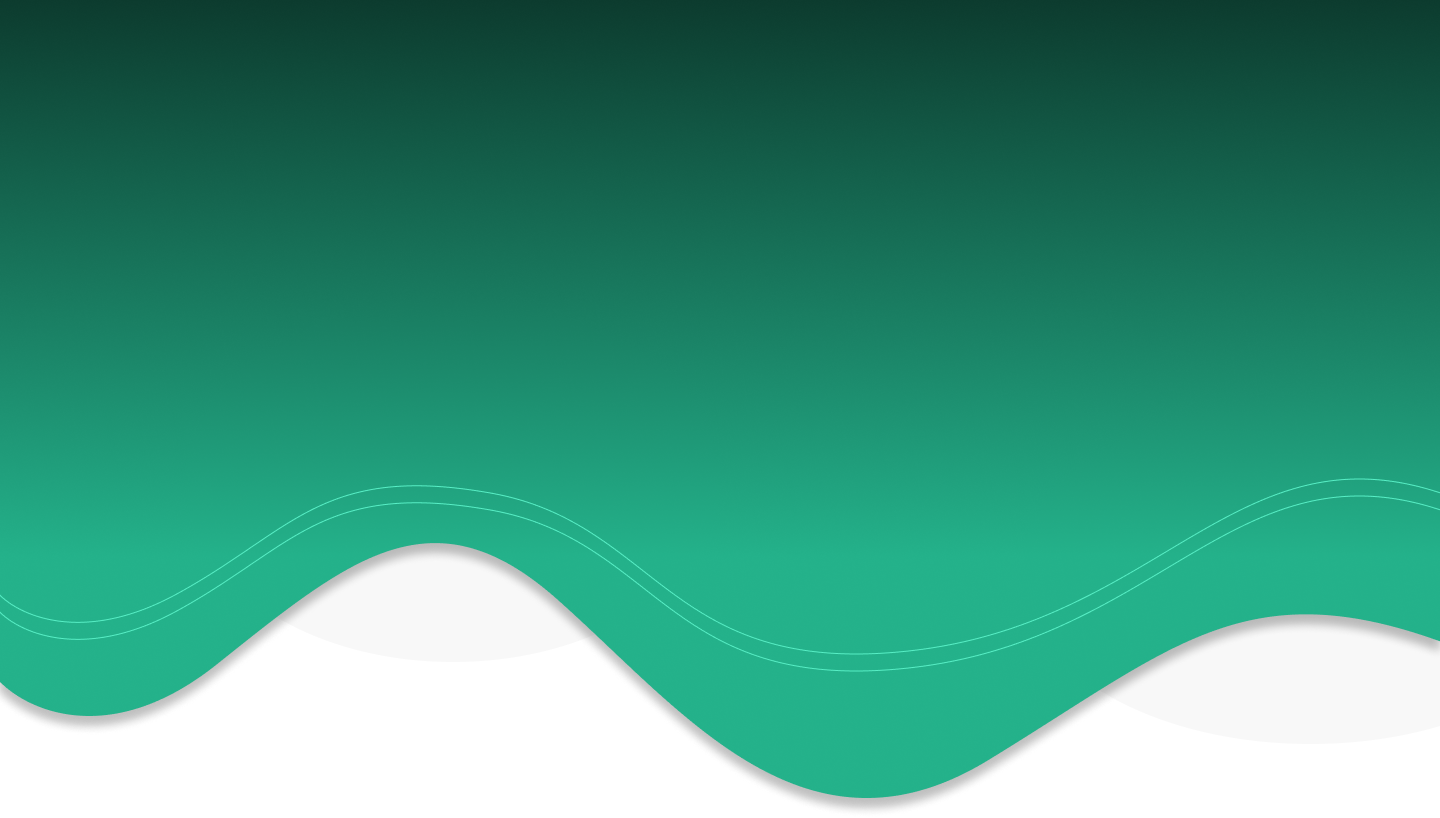
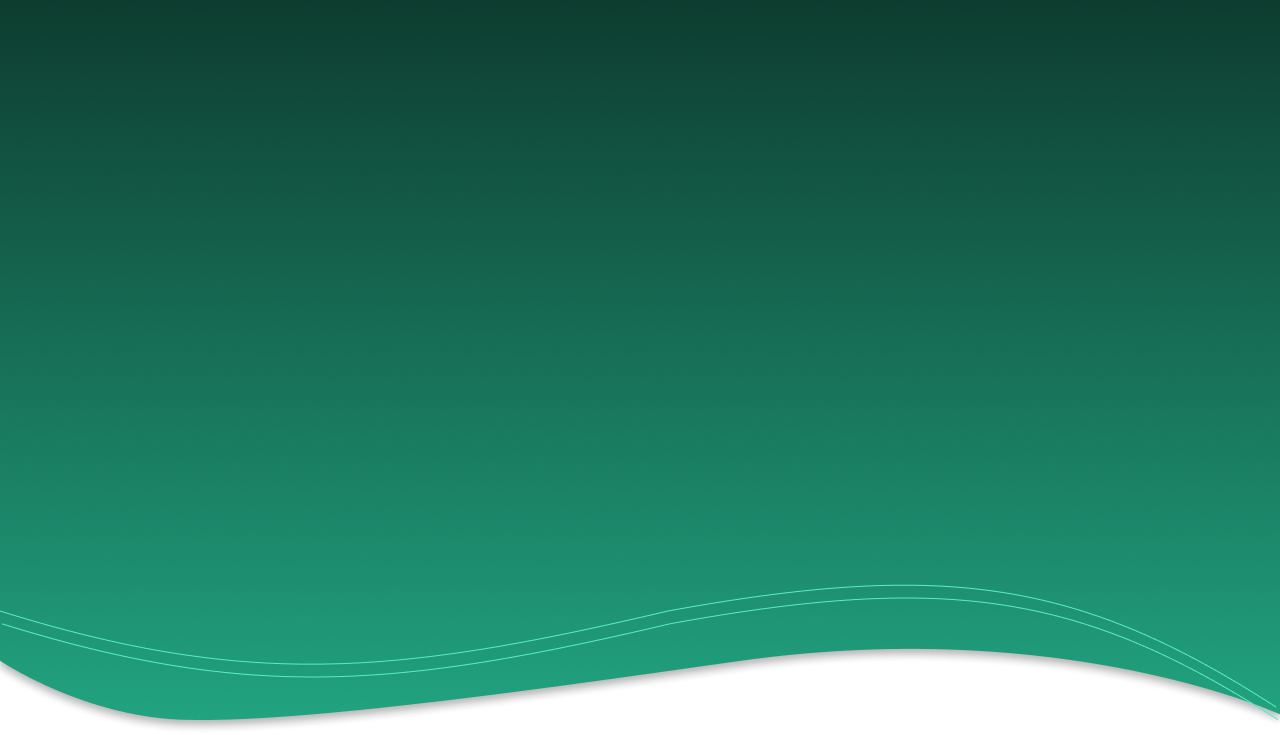
Fix Background and Responsive

diff --git a/index.html b/index.html
@@ -13,13 +13,15 @@
     rel="stylesheet">
   <!-- CSS -->
   <link rel="stylesheet" href="assets/css/style.css">
+  <link rel="icon" href="assets/img/logo-transparent.png">
 
   <title>Breakpoint.id</title>
 </head>
 
 <body>
-  <nav id="navbar-menu" class="navbar navbar-expand-md d-flex flex-column justify-content-md-center v-height-full">
-    <button class="navbar-toggler" type="button" data-bs-toggle="collapse" data-bs-target="#navbarNavAltMarkup"
+  <nav id="navbar-menu"
+    class="navbar navbar-expand-md d-flex flex-column justify-content-md-center align-items-end v-height-full">
+    <button class="navbar-toggler text-end" type="button" data-bs-toggle="collapse" data-bs-target="#navbarNavAltMarkup"
       aria-controls="navbarNavAltMarkup" aria-expanded="false" aria-label="Toggle navigation">
       <span class="navbar-toggler-icon"></span>
     </button>
@@ -52,13 +54,16 @@
       </div>
       <div class="header d-flex flex-column justify-content-center">
         <div class="container">
-          <div class="row">
-            <div class="col-md-6 px-5">
+          <div class="row align-items-center justify-content-center">
+            <div class="col-md-5">
               <h1 class="header-title">BREAKPOINT.</h1>
               <p class="header-description">Kami dapat mewujudkan website yang menarik dan fungsional untuk bisnis,
                 perusahaan, atau e-commerce
                 Anda.
               </p>
+            </div>
+            <div class="col-md-5 text-center">
+              <img src="assets/img/header-image.png" class="header-image" alt="">
             </div>
           </div>
         </div>
@@ -125,9 +130,9 @@
     <section id="project">
       <div class="project d-flex flex-column justify-content-center">
         <div class="container">
-          <div class="row justify-content-center">
+          <div class="row align-items-center justify-content-center">
             <div class="col-lg-7">
-              <h2 class="my-4 text-center">Proyek Sebelumnya</h2>
+              <h2 class="text-center">Proyek Sebelumnya</h2>
               <div class="text-end my-3">
                 <a href="" class="project-link">Lihat Semua >></a>
               </div>
@@ -174,7 +179,7 @@
             <div class="col-lg-8">
               <h2 class="text-center mb-5">Daftar Paket dan Harga</h2>
               <div class="row mx-2">
-                <div class="col-md-4 my-2">
+                <div class="col-md-4 order-2 order-md-1 my-2">
                   <div class="pricing-content text-center">
                     <h4>Small Business</h4>
                     <h3>1150K<span>/proyek</span></h3>
@@ -185,7 +190,7 @@
                     <h6>E-commerce, Online Shop, blabla, blabla</h6>
                   </div>
                 </div>
-                <div class="col-md-4 my-2">
+                <div class="col-md-4 order-1 order-md-2 my-2">
                   <div class="pricing-content text-center active">
                     <h4>Small Business</h4>
                     <h3>1150K<span>/proyek</span></h3>
@@ -196,7 +201,7 @@
                     <h6>E-commerce, Online Shop, blabla, blabla</h6>
                   </div>
                 </div>
-                <div class="col-md-4 my-2">
+                <div class="col-md-4 order-3 order-md-3 my-2">
                   <div class="pricing-content text-center">
                     <h4>Small Business</h4>
                     <h3>1150K<span>/proyek</span></h3>

diff --git a/assets/sass/style.scss b/assets/sass/style.scss
@@ -80,12 +80,7 @@ body {
 }
 
 #home {
-  height: 100vh;
   position: relative;
-  background-image: url(../img/bg-header.png);
-  background-size: cover;
-  background-repeat: no-repeat;
-  background-position: right;
   .logo {
     position: absolute;
     top: 0;
@@ -101,7 +96,12 @@ body {
     }
   }
   .header {
-    height: 75vh;
+    min-height: 100vh;
+    background-image: url(../img/bg-header.png);
+    background-size: 100% 100%;
+    background-repeat: no-repeat;
+    background-position: center;
+    min-height: 100vh;
     &-title {
       font-size: 3rem;
       font-weight: 700;
@@ -111,13 +111,16 @@ body {
       font-size: 1.5rem;
       color: $white-color;
     }
+    &-image {
+      max-width: 250px;
+    }
   }
 }
 
 .about {
+  min-height: 100vh;
+  margin: -5rem 0;
   background-color: transparent;
-  margin-top: -5rem;
-  height: 90vh;
   &-title {
     font-size: 1.5rem;
     font-weight: 700;
@@ -165,13 +168,12 @@ body {
 
 #project {
   position: relative;
-  height: 120vh;
-  background-image: url(../img/bg-home.png);
-  background-size: 100% 100%;
-  background-repeat: no-repeat;
-  background-position: center;
   .project {
-    height: 100vh;
+    min-height: 100vh;
+    background-image: url(../img/bg-home.png);
+    background-size: 100% 100%;
+    background-repeat: no-repeat;
+    background-position: center;
     &-link {
       color: $yellow-color;
       font-weight: 700;
@@ -206,8 +208,8 @@ body {
 }
 
 .pricing {
-  margin-top: -10rem;
-  height: 100vh;
+  min-height: 100vh;
+  margin: -5rem 0;
   h2 {
     font-size: 1.5rem;
     color: $green-color;
@@ -290,13 +292,11 @@ body {
 }
 
 #footer {
-  margin-top: -10rem;
-  height: 100vh;
-  background-image: url(../img/bg-footer.png);
-  background-size: 100% 100%;
-  background-position: center;
   .footer {
-    height: 100vh;
+    min-height: 100vh;
+    background-image: url(../img/bg-footer.png);
+    background-size: 100% 100%;
+    background-position: center;
   }
   h2 {
     color: $white-color;
@@ -304,36 +304,19 @@ body {
     font-weight: 700;
   }
 }
-@media screen and (max-height: 576px) {
-  #home {
-    height: 100vh;
-    background-size: 100% 100%;
-  }
-  #project {
-    min-height: 100vh;
-    background-size: 100% 100%;
-  }
-}
 
 @media screen and (max-width: 992px) {
-  .about {
-    margin-top: 0;
-    height: auto;
-  }
-  #project {
-    height: 120vh;
+  #home .header,
+  #project .project,
+  #footer .footer {
+    padding: 5rem 0;
     background-size: cover;
-    background-position-x: right;
+    background-position: cover;
   }
+
+  .about,
   .pricing {
-    margin-top: 0rem;
-    height: auto;
-  }
-  #footer {
-    margin-top: 0rem;
-    height: auto;
-    background-size: cover;
-    background-position: center;
+    margin: 0;
   }
 }
 
@@ -342,16 +325,16 @@ body {
     right: 1rem;
     border-right: none;
   }
-  #home {
-    height: 100vh;
-    background-size: cover;
-    background-position: right;
+
+  .header {
+    &-image {
+      width: 50%;
+    }
   }
 }
 
 @media screen and (max-width: 576px) {
   #home {
-    height: 100vh;
     .logo {
       position: absolute;
       top: 0;

diff --git a/assets/css/style.css b/assets/css/style.css
@@ -82,12 +82,7 @@ body {
 }
 
 #home {
-  height: 100vh;
   position: relative;
-  background-image: url(../img/bg-header.png);
-  background-size: cover;
-  background-repeat: no-repeat;
-  background-position: right;
 }
 
 #home .logo {
@@ -108,7 +103,12 @@ body {
 }
 
 #home .header {
-  height: 75vh;
+  min-height: 100vh;
+  background-image: url(../img/bg-header.png);
+  background-size: 100% 100%;
+  background-repeat: no-repeat;
+  background-position: center;
+  min-height: 100vh;
 }
 
 #home .header-title {
@@ -122,10 +122,14 @@ body {
   color: #ffffff;
 }
 
+#home .header-image {
+  max-width: 250px;
+}
+
 .about {
+  min-height: 100vh;
+  margin: -5rem 0;
   background-color: transparent;
-  margin-top: -5rem;
-  height: 90vh;
 }
 
 .about-title {
@@ -180,15 +184,14 @@ body {
 
 #project {
   position: relative;
-  height: 120vh;
+}
+
+#project .project {
+  min-height: 100vh;
   background-image: url(../img/bg-home.png);
   background-size: 100% 100%;
   background-repeat: no-repeat;
   background-position: center;
-}
-
-#project .project {
-  height: 100vh;
 }
 
 #project .project-link {
@@ -228,8 +231,8 @@ body {
 }
 
 .pricing {
-  margin-top: -10rem;
-  height: 100vh;
+  min-height: 100vh;
+  margin: -5rem 0;
 }
 
 .pricing h2 {
@@ -331,16 +334,11 @@ body {
   color: #166a53;
 }
 
-#footer {
-  margin-top: -10rem;
-  height: 100vh;
+#footer .footer {
+  min-height: 100vh;
   background-image: url(../img/bg-footer.png);
   background-size: 100% 100%;
   background-position: center;
-}
-
-#footer .footer {
-  height: 100vh;
 }
 
 #footer h2 {
@@ -349,36 +347,17 @@ body {
   font-weight: 700;
 }
 
-@media screen and (max-height: 576px) {
-  #home {
-    height: 100vh;
-    background-size: 100% 100%;
-  }
-  #project {
-    min-height: 100vh;
-    background-size: 100% 100%;
-  }
-}
-
 @media screen and (max-width: 992px) {
-  .about {
-    margin-top: 0;
-    height: auto;
-  }
-  #project {
-    height: 120vh;
+  #home .header,
+  #project .project,
+  #footer .footer {
+    padding: 5rem 0;
     background-size: cover;
-    background-position-x: right;
+    background-position: cover;
   }
+  .about,
   .pricing {
-    margin-top: 0rem;
-    height: auto;
-  }
-  #footer {
-    margin-top: 0rem;
-    height: auto;
-    background-size: cover;
-    background-position: center;
+    margin: 0;
   }
 }
 
@@ -387,17 +366,12 @@ body {
     right: 1rem;
     border-right: none;
   }
-  #home {
-    height: 100vh;
-    background-size: cover;
-    background-position: right;
+  .header-image {
+    width: 50%;
   }
 }
 
 @media screen and (max-width: 576px) {
-  #home {
-    height: 100vh;
-  }
   #home .logo {
     position: absolute;
     top: 0;
